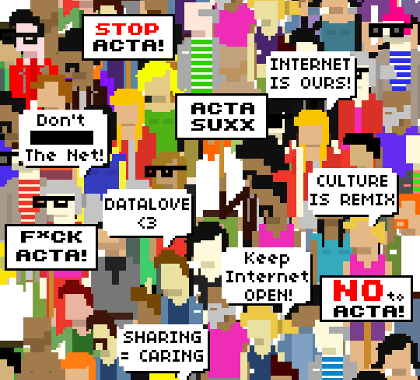
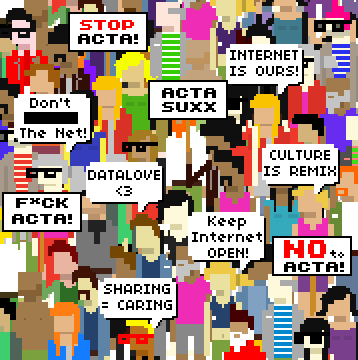
new image + recentered

diff --git a/20_dark_blue_rollover.php b/20_dark_blue_rollover.php
@@ -19,7 +19,7 @@
                 <div class="span6">
                     <div class="anime_display">
        <div class="animed" id="dap99">
-          <div id="fap99" style="padding: 10px 0 0 30px"><img id="figure_img" src="images/united_in_diversity_370.png"/></div>
+          <div id="fap99" style="padding: 22px 0 0 60px"><img id="figure_img" src="images/united_in_diversity_370.png"/></div>
        </div>
 		      <!-- hide/show through switchAnime() -->
 		      <?php $id2 = 0; /* in texts.php */ foreach($actapoints as $point => $details ): ?>
